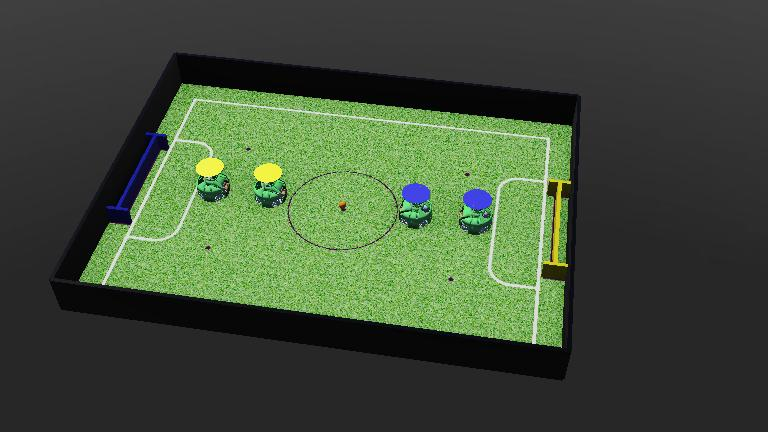
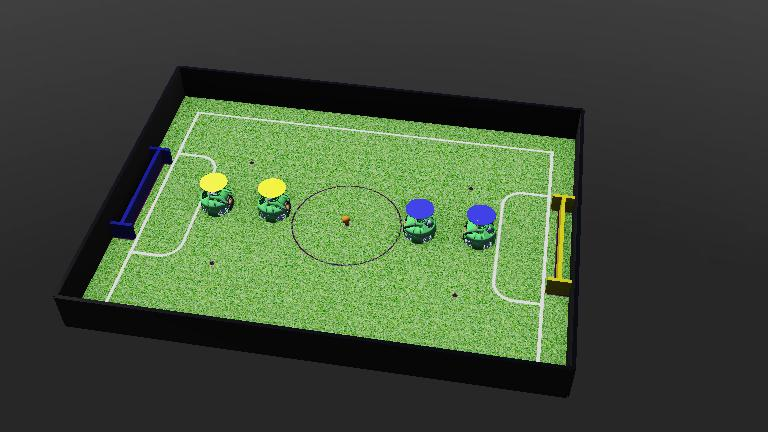
kicker sensor and out detection

Changed region(s): [[0.0625, 0.1204, 0.7812, 0.9329]]

diff --git a/controllers/Robot_Y1/Robot_Y1.py b/controllers/Robot_Y1/Robot_Y1.py
@@ -56,6 +56,12 @@ class OmniDrive:
         y = v * math.cos(math.radians(a))
         self.move(x, y, 0)
 
+    def moveTo(self, x, y, w, robot_x, robot_y, robot_angle):
+        error_x = (robot_x - x) * 50
+        error_y = (robot_y - y) * 50
+        error_w = (robot_angle - w) * 20
+        self.move(error_y, -error_x, error_w)
+
 def main():
     robot = Robot()
     drive = OmniDrive(robot)
@@ -70,6 +76,10 @@ def main():
     receiver = robot.getDevice("receiver")
     receiver.enable(TIME_STEP)
 
+    ball_sensor = robot.getDevice("touch_kicker")
+    ball_sensor.enable(TIME_STEP)
+
+
     while robot.step(TIME_STEP) != -1:
         # Move forward slowly
         
@@ -81,6 +91,9 @@ def main():
         compass_val = compass.getValues()
         # Compute heading angle: 0 rad is pointing along +X (forward) in Webots coordinate frame
         self_heading = math.atan2(compass_val[0], compass_val[1])
+        kicker_sens = ball_sensor.getValue()
+        print(kicker_sens)
+
         drive.setHeading(math.degrees(self_heading))
         # 2. Check if a packet from the ball has arrived
         ball_detected = False
@@ -105,8 +118,18 @@ def main():
             relative_angle_rad = (relative_angle_rad + math.pi) % (2 * math.pi) - math.pi
             relative_angle_deg = math.degrees(relative_angle_rad)
             
-            shift = max(-60, min(relative_angle_deg * 0.8, 60))
-            drive.moveAngle(relative_angle_deg + shift, 20)
+            # drive.moveTo(-0.2, 0, 0, self_x, self_y, self_heading)
+            if ball_y > 0.8:
+                drive.moveTo(ball_x, 0.7, 0, self_x, self_y, self_heading)
+            elif ball_y < -0.8:
+                drive.moveTo(ball_x, -0.7, 0, self_x, self_y, self_heading)
+            elif ball_x > 1.06:
+                drive.moveTo(1.0, ball_y, 0, self_x, self_y, self_heading)
+            elif ball_x < -1.06:
+                drive.moveTo(-1.0, ball_y, 0, self_x, self_y, self_heading)
+            else:
+                shift = max(-60, min(relative_angle_deg * 0.8, 60))
+                drive.moveAngle(relative_angle_deg + shift, 20)
             # print(f"Ball detected! Distance: {distance:.2f} m | Angle: {relative_angle_deg:.1f}°")
         else:
             # print("No signal from ball.")

diff --git a/controllers/Robot_B1/Robot_B1.py b/controllers/Robot_B1/Robot_B1.py
@@ -92,7 +92,7 @@ def main():
             ball_detected = True
             receiver.nextPacket()  # Go to next packet if any
             
-        if ball_detected:
+        if False: # ball_detected:
             # 3. Calculate distance
             dx = ball_x - self_x
             dy = ball_y - self_y

diff --git a/controllers/Robot_B2/Robot_B2.py b/controllers/Robot_B2/Robot_B2.py
@@ -92,7 +92,7 @@ def main():
             ball_detected = True
             receiver.nextPacket()  # Go to next packet if any
             
-        if ball_detected:
+        if False: # ball_detected:
             # 3. Calculate distance
             dx = ball_x - self_x
             dy = ball_y - self_y

diff --git a/controllers/Robot_Y2/Robot_Y2.py b/controllers/Robot_Y2/Robot_Y2.py
@@ -91,7 +91,7 @@ def main():
             ball_detected = True
             receiver.nextPacket()  # Go to next packet if any
             
-        if ball_detected:
+        if False: # ball_detected:
             # 3. Calculate distance
             dx = ball_x - self_x
             dy = ball_y - self_y
